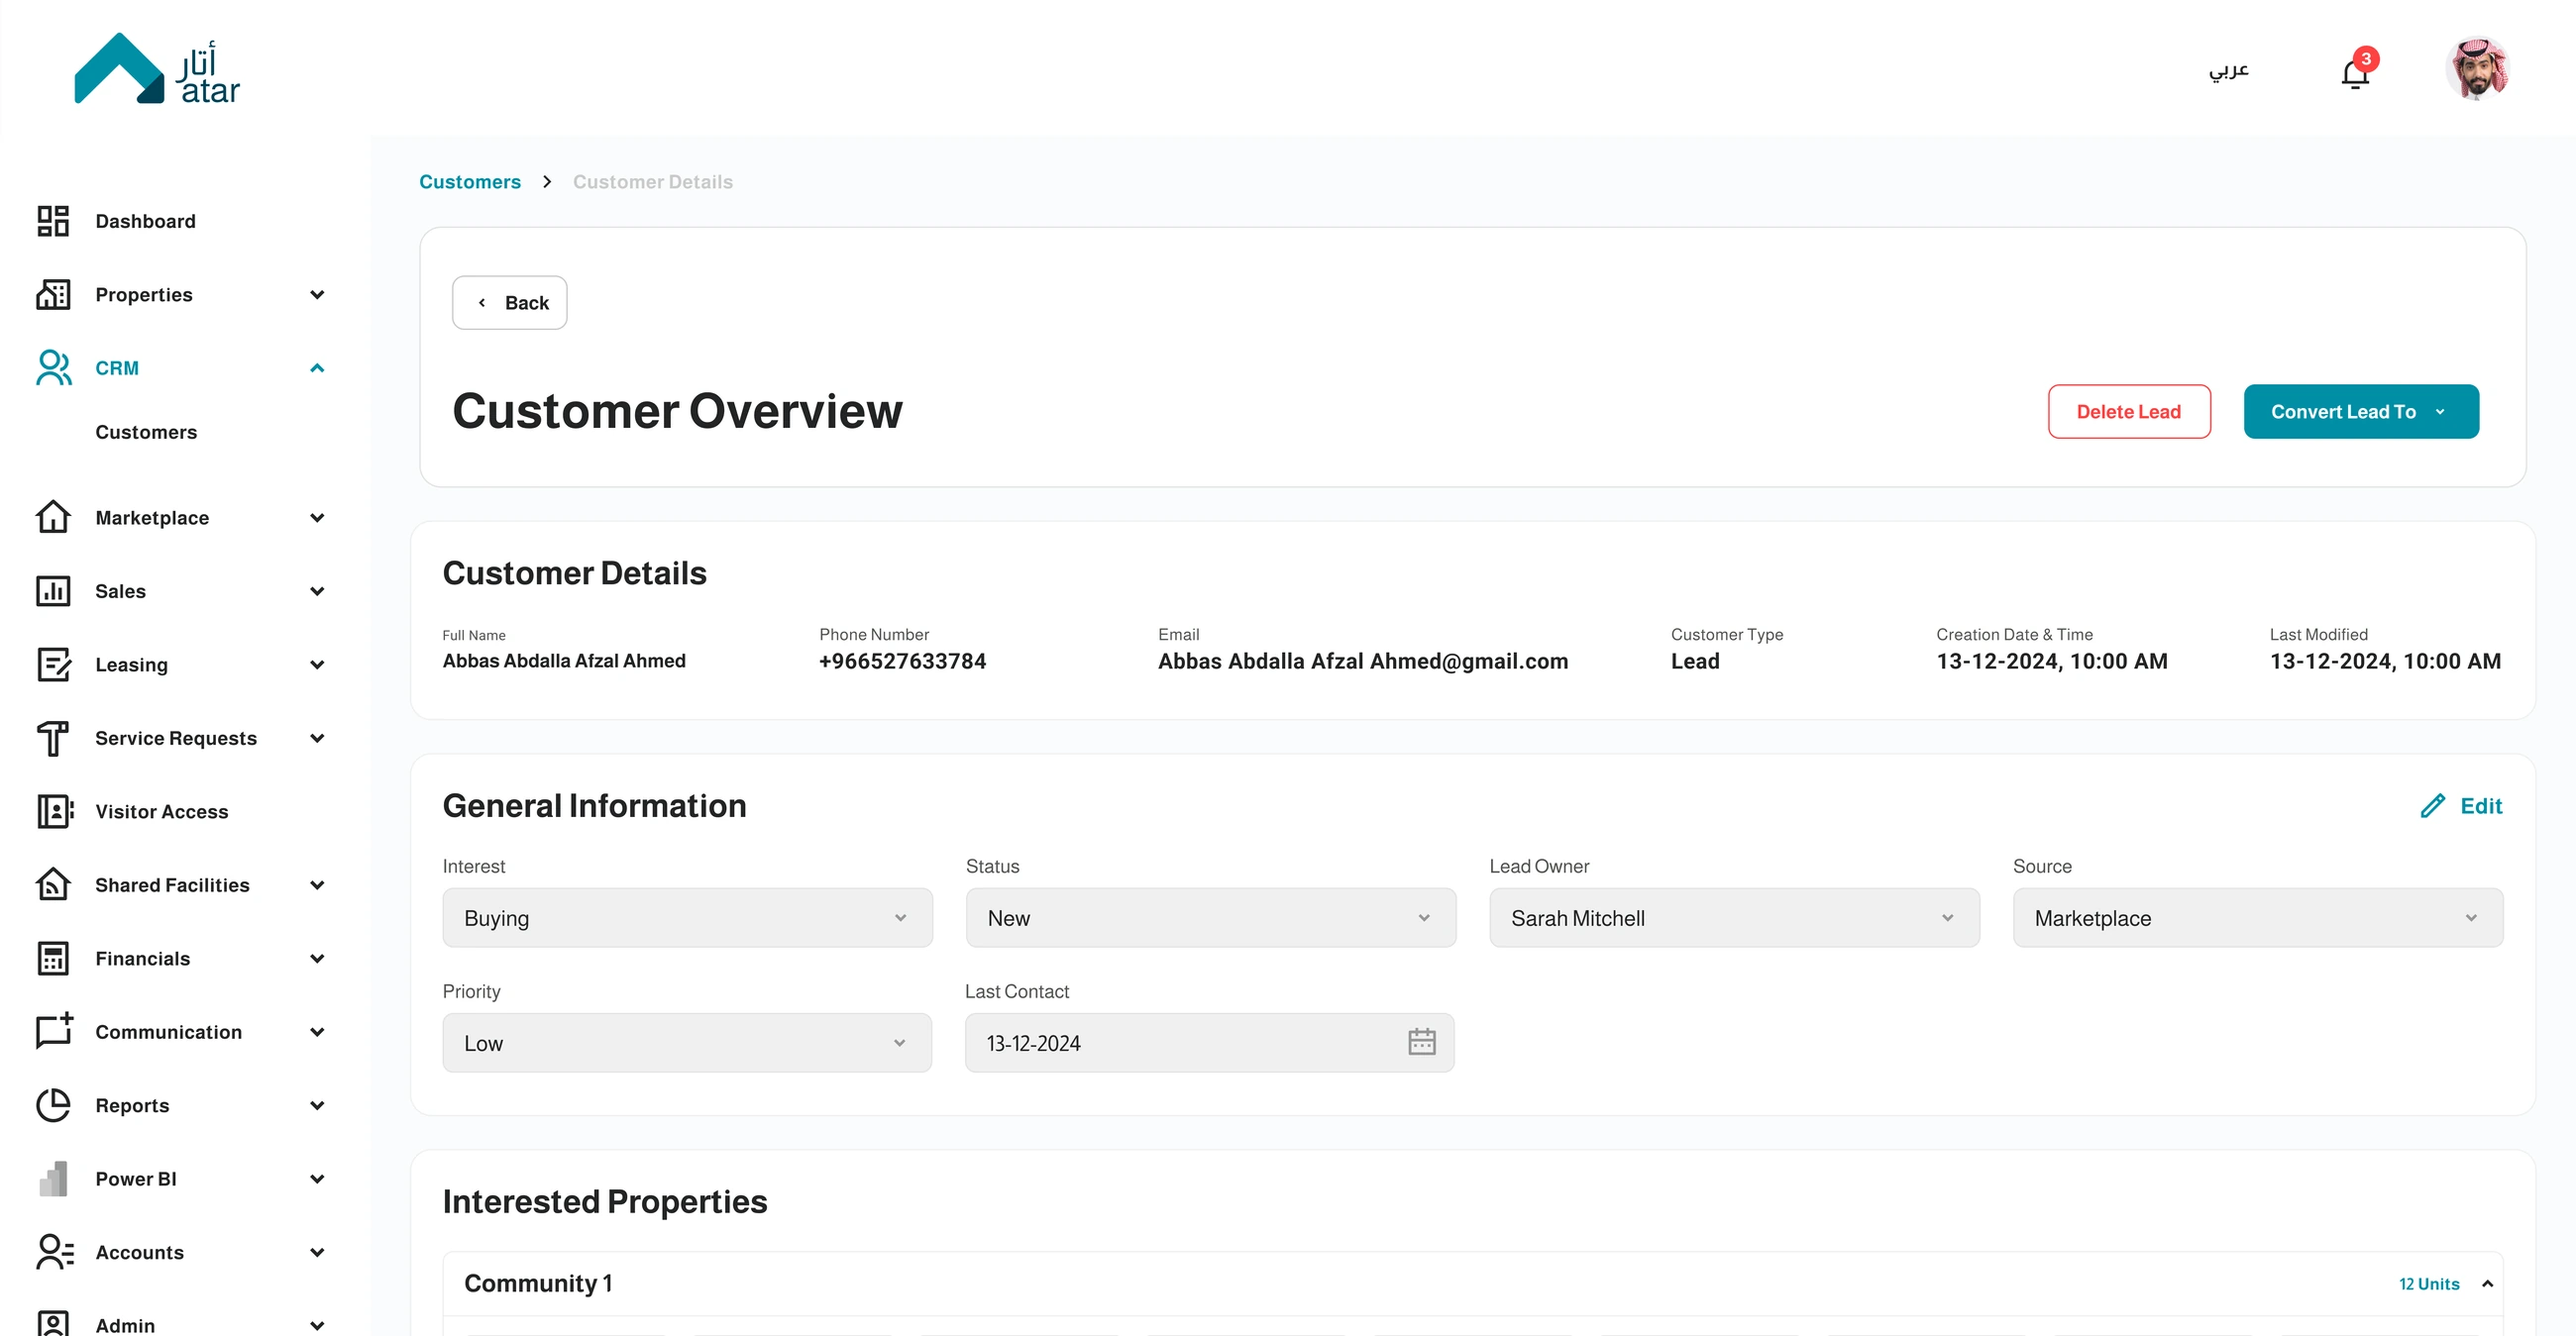
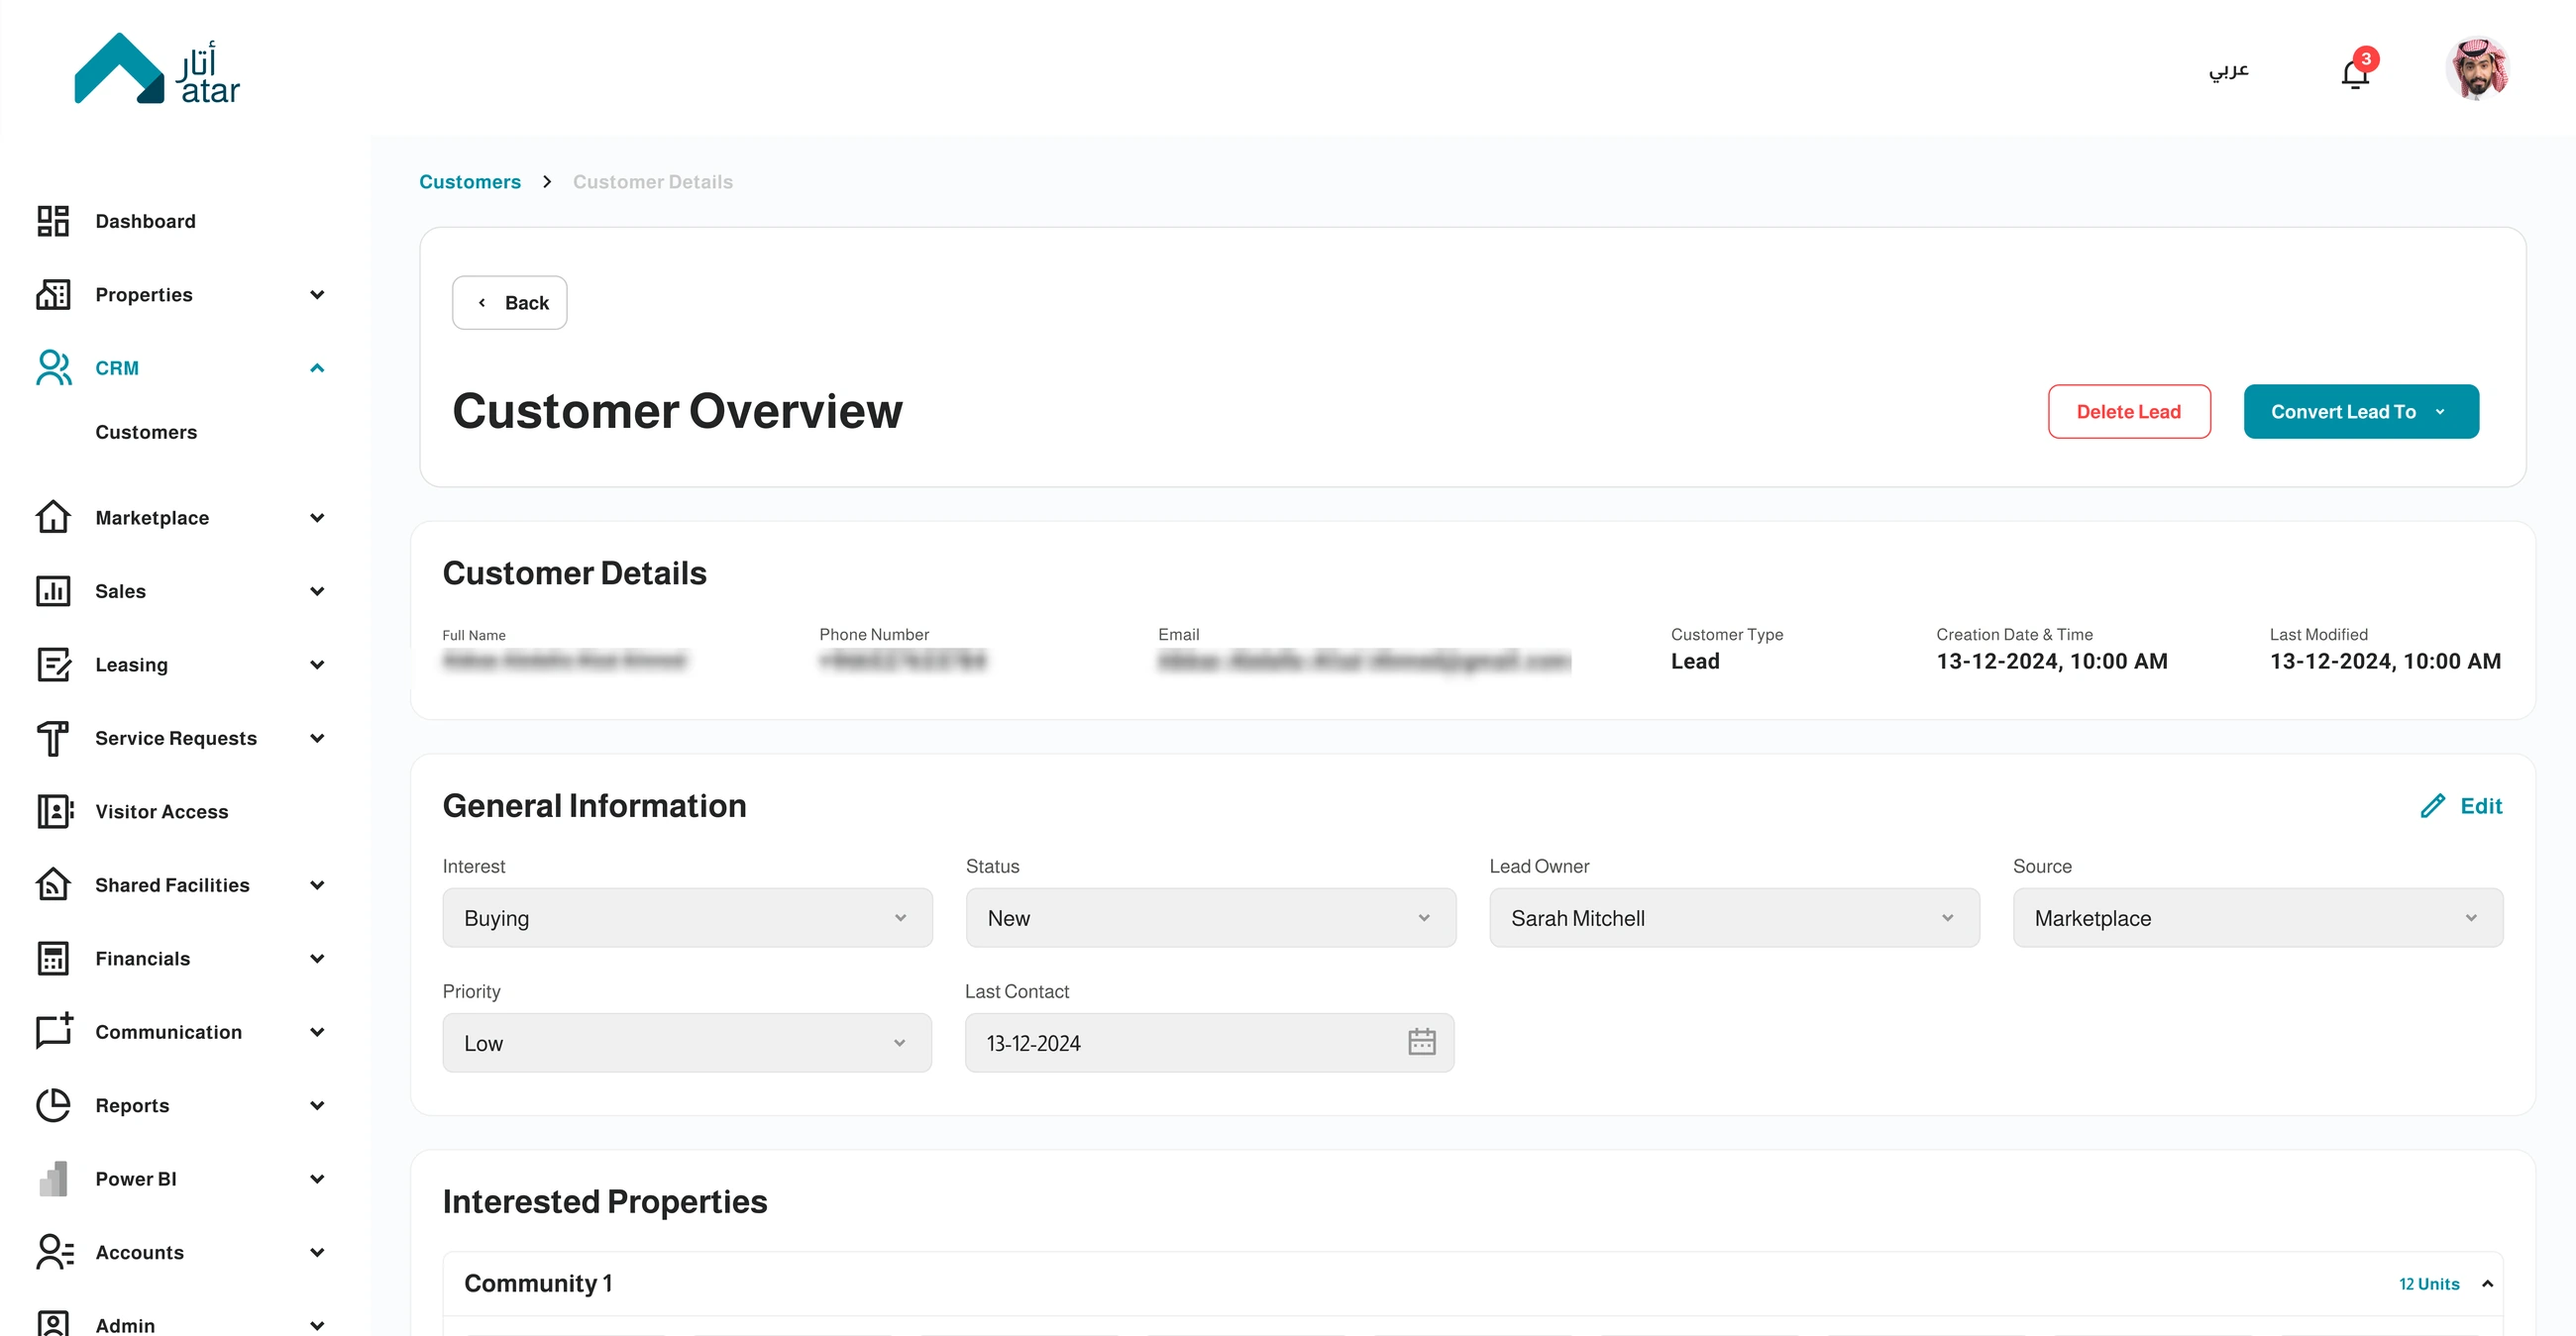
Add image for finance/events and customer portal

Changed region(s): [[0.4362, 0.467, 0.6231, 0.5293], [0.1558, 0.467, 0.2804, 0.5293], [0.3115, 0.467, 0.405, 0.5293]]

diff --git a/src/data/placeholderPages.ts b/src/data/placeholderPages.ts
@@ -1130,94 +1130,21 @@ export const placeholderPages: Record<string, PlaceholderCopy> = {
     ],
   },
 
+  // Deliberate exception (same pattern as "/solutions/listing-website"
+  // above): an exact copy of "/products/addons/branded-mobile-app", and
+  // pages/PlaceholderPage.tsx's isBrandedMobileApp flag treats this path the
+  // same as that add-on page — both hero layouts, the layout switcher, the
+  // feature showcase, the Download CTA — per an explicit request to reuse
+  // that page wholesale here rather than the generic Solutions template.
   "/solutions/customer-portal": {
-    eyebrow: SOLUTIONS,
-    title: L("Customer Portal", "بوابة العملاء"),
+    eyebrow: L("Add-ons", "الإضافات"),
+    title: L("Branded Mobile App", "تطبيق جوال بعلامتك التجارية"),
     body: L(
-      "Give owners, tenants and buyers self-service access to statements, service requests and documents, anytime.",
-      "امنح الملّاك والمستأجرين والمشترين وصولاً ذاتياً إلى كشوف الحساب وطلبات الخدمة والمستندات في أي وقت."
+      "A white-labeled mobile app for your tenants, owners and buyers — service requests, payments and announcements, under your own brand.",
+      "تطبيق جوال بعلامتك الخاصة لمستأجريك وملّاكك ومشتريك — طلبات الخدمة والمدفوعات والإعلانات، تحت علامتك التجارية."
     ),
-    sections: [
-      {
-        kind: "iconFeatures",
-        items: [
-          {
-            icon: "riyal",
-            title: L("Self-service statements and payment history", "كشوف حساب وسجل مدفوعات ذاتية الخدمة"),
-            body: L(
-              "Owners and tenants check what they've paid and what's due without emailing your finance team for a copy.",
-              "يطّلع الملّاك والمستأجرون على ما دفعوه وما هو مستحق دون مراسلة فريق المالية لطلب نسخة."
-            ),
-          },
-          {
-            icon: "ticket",
-            title: L("Submit and track service requests", "إرسال وتتبّع طلبات الخدمة"),
-            body: L(
-              "A maintenance request can be raised and followed up on from the same portal, with no follow-up call needed.",
-              "يمكن رفع طلب الصيانة ومتابعته من البوابة نفسها، دون الحاجة لأي مكالمة متابعة."
-            ),
-          },
-          {
-            icon: "file",
-            title: L("Document access: contracts, invoices, notices", "الوصول للمستندات: العقود والفواتير والإشعارات"),
-            body: L(
-              "Every contract, invoice and notice is available on demand, instead of being requested one email at a time.",
-              "يتوفر كل عقد وفاتورة وإشعار عند الطلب، بدل طلبه عبر بريد إلكتروني منفصل في كل مرة."
-            ),
-          },
-          {
-            icon: "smartphone",
-            title: L("Available on web and the branded mobile app", "متاحة على الويب وتطبيق الجوال بعلامتك التجارية"),
-            body: L(
-              "The same self-service experience works on desktop and on your own branded app, not just one or the other.",
-              "تعمل نفس تجربة الخدمة الذاتية على سطح المكتب وعلى تطبيقك بعلامتك التجارية، لا على أحدهما فقط."
-            ),
-          },
-        ],
-      },
-      {
-        kind: "whyAtar",
-        heading: L("Why Atar for your Customer Portal", "لماذا أتار لبوابة العملاء"),
-        subtitle: L(
-          "Why a self-service portal only works when it's reading from the same data as the rest of your operation.",
-          "لماذا لا تنجح بوابة الخدمة الذاتية إلا عندما تقرأ من نفس بيانات بقية عملياتك."
-        ),
-        cards: [
-          {
-            icon: "refresh",
-            title: L("Live, not batch", "مباشر لا دفعي"),
-            body: L(
-              "A payment or a status change shows up in the portal immediately — not after tomorrow's data sync.",
-              "تظهر أي دفعة أو تغيير حالة في البوابة فوراً، لا بعد مزامنة بيانات الغد."
-            ),
-          },
-          {
-            icon: "shield",
-            title: L("Built for Saudi compliance", "مصمم للامتثال السعودي"),
-            body: L(
-              "Statements and documents match the same ZATCA-ready format your finance team already issues.",
-              "تتطابق الكشوف والمستندات مع نفس التنسيق الجاهز لهيئة الزكاة والضريبة والجمارك الذي يصدره فريق المالية أصلاً."
-            ),
-          },
-          {
-            icon: "layers",
-            title: L("One system, not five", "نظام واحد لا خمسة"),
-            body: L(
-              "The portal reads directly from your leasing, billing and ticketing records — nothing re-entered for customers to see.",
-              "تقرأ البوابة مباشرة من سجلات التأجير والفوترة والتذاكر، دون إعادة إدخال أي شيء ليراه العملاء."
-            ),
-          },
-          {
-            icon: "message",
-            title: L("Support in Arabic and English", "دعم بالعربية والإنجليزية"),
-            body: L(
-              "Owners, tenants and buyers get the portal — and support if they need it — in the language they prefer.",
-              "يحصل الملّاك والمستأجرون والمشترون على البوابة، وعلى الدعم عند الحاجة، باللغة التي يفضّلونها."
-            ),
-          },
-        ],
-      },
-    ],
+    // No generic "bullets" section here — same as the add-on page, the
+    // content is covered by the bespoke components in PlaceholderPage.tsx.
   },
 
   "/solutions/reporting-analytics": {

diff --git a/src/pages/PlaceholderPage.tsx b/src/pages/PlaceholderPage.tsx
@@ -21,6 +21,8 @@ import {
   maintenanceTicketingMockup,
   facilitiesManagementMockup,
   realEstateCrmMockup,
+  propertyPortfolioFinancialsMockup,
+  communityEngagementMockup,
 } from "../assets";
 import Reveal from "../components/ui/Reveal";
 import Button from "../components/ui/Button";
@@ -150,7 +152,14 @@ export default function PlaceholderPage() {
   const isSalesSuite = pathname === "/products/sales-suite";
   const isLeasingSuite = pathname === "/products/leasing-suite";
   const isOperationsSuite = pathname === "/products/operations-suite";
-  const isBrandedMobileApp = pathname === "/products/addons/branded-mobile-app";
+  // /solutions/customer-portal is a deliberate exception (same pattern as
+  // /solutions/listing-website below): it reuses the Branded Mobile App
+  // add-on page's content and components verbatim — both hero layouts, the
+  // layout switcher, the feature showcase — instead of the generic Solutions
+  // template. See data/placeholderPages.ts, whose entry for this route is
+  // kept an exact copy of the add-on page's.
+  const isBrandedMobileApp =
+    pathname === "/products/addons/branded-mobile-app" || pathname === "/solutions/customer-portal";
   // /solutions/listing-website is a deliberate exception to every other
   // Solutions page below: instead of the generic dummy-hero + iconFeatures +
   // whyAtar treatment, it reuses the Products add-on page's content and
@@ -164,10 +173,12 @@ export default function PlaceholderPage() {
   // hero image below — so the layout is consistent without touching that
   // add-on page's own real screenshot or copy.
   const isSolutionsPage = pathname.startsWith("/solutions/");
-  // Sales & Handover and Leasing & Contract Management have real client
-  // screenshots now — every other Solutions page still falls back to the
-  // generic dummy placeholder (SolutionHeroPlaceholder) until its own image
-  // is provided, at which point it's added to this lookup.
+  // Real client screenshots, one per Solutions page as they're provided —
+  // every other Solutions page still falls back to the generic dummy
+  // placeholder (SolutionHeroPlaceholder) until its own image is added here.
+  // Any name/email/phone/national-ID visible in the source screenshots is
+  // pixelated before being saved into src/assets/illustrations, so no real
+  // customer PII ships in the built site.
   const solutionHeroImages: Partial<Record<string, { src: string; alt: LStr }>> = {
     "/solutions/sales-handover": {
       src: salesHandoverMockup,
@@ -204,10 +215,24 @@ export default function PlaceholderPage() {
         ar: "لقطة شاشة لوحدة إدارة علاقات العملاء الفعلية — نظرة عامة على العميل وتفاصيل العميل المحتمل",
       },
     },
+    "/solutions/property-portfolio-financials": {
+      src: propertyPortfolioFinancialsMockup,
+      alt: {
+        en: "Screenshot of the actual Revenues module — invoice status and payer information",
+        ar: "لقطة شاشة لوحدة الإيرادات الفعلية — حالة الفواتير وبيانات الدافعين",
+      },
+    },
+    "/solutions/community-engagement-access": {
+      src: communityEngagementMockup,
+      alt: {
+        en: "Screenshot of the actual Announcement Details screen",
+        ar: "لقطة شاشة لتفاصيل الإعلان الفعلية",
+      },
+    },
   };
   const solutionHeroImage = solutionHeroImages[pathname]?.src;
   const solutionHeroImageAlt = solutionHeroImages[pathname]?.alt;
-  const hasCloudyHero = isListingWebsite || isSolutionsPage;
+  const hasCloudyHero = isListingWebsite || (isSolutionsPage && !isBrandedMobileApp);
   // Two selectable visual treatments for the Branded Mobile App page, so the
   // team can compare them side by side before picking one. Toggle only
   // renders on this one route; every other placeholder page is unaffected.
@@ -315,7 +340,7 @@ export default function PlaceholderPage() {
           />
         )}
         {isListingWebsite && <ListingWebsiteShowcase locale={locale} />}
-        {isSolutionsPage && !isListingWebsite && (
+        {isSolutionsPage && !isListingWebsite && !isBrandedMobileApp && (
           <SolutionHeroPlaceholder locale={locale} image={solutionHeroImage} imageAlt={solutionHeroImageAlt} />
         )}
       </section>

diff --git a/src/assets/index.ts b/src/assets/index.ts
@@ -42,6 +42,15 @@ import facilitiesManagementMockup from "./illustrations/facilities-management-mo
 // Client-provided screenshot of the actual CRM Customer Overview screen —
 // used as the Real Estate CRM Solutions page's hero visual.
 import realEstateCrmMockup from "./illustrations/real-estate-crm-mockup.webp";
+// Client-provided screenshot of the actual Revenues module (invoice table,
+// payer names/phones) — used as the Billing & Financials Solutions page's
+// hero visual. Payer name/phone columns are pixelated (see the processing
+// note on the other Solutions mockups) since they show real-looking PII.
+import propertyPortfolioFinancialsMockup from "./illustrations/property-portfolio-financials-mockup.webp";
+// Client-provided screenshot of the actual Announcement Details screen — used
+// as the Community Engagement & Access Solutions page's hero visual. No
+// name/email/phone/national ID appears in this one, so no pixelation needed.
+import communityEngagementMockup from "./illustrations/community-engagement-mockup.webp";
 
 export {
   atarLogo,
@@ -56,6 +65,8 @@ export {
   maintenanceTicketingMockup,
   facilitiesManagementMockup,
   realEstateCrmMockup,
+  propertyPortfolioFinancialsMockup,
+  communityEngagementMockup,
 };
 
 const clientGlob = import.meta.glob("./clients/*.svg", {
